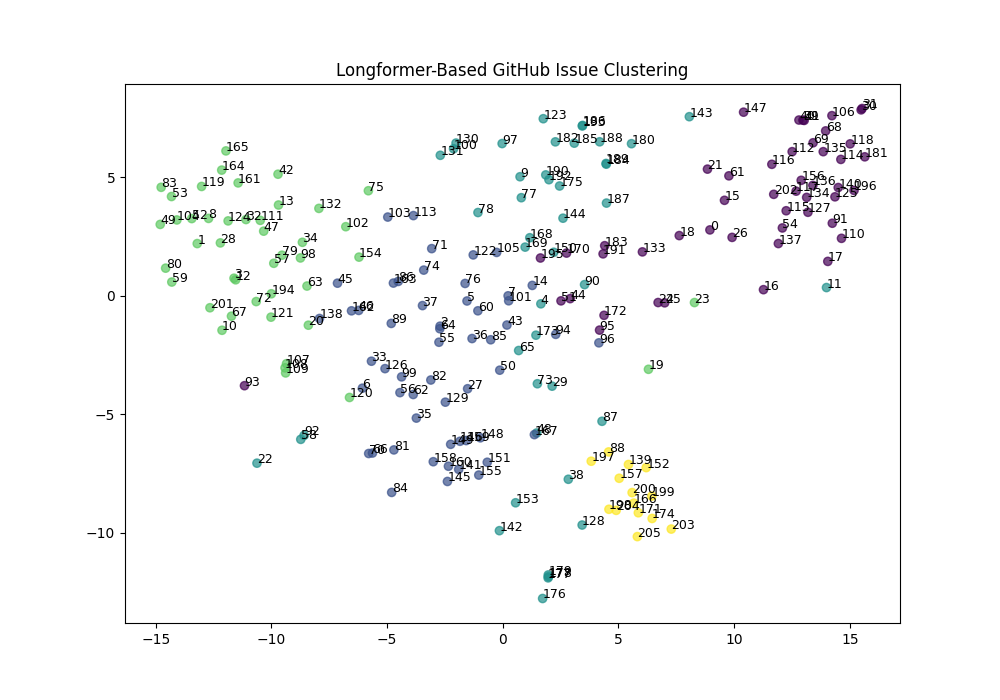
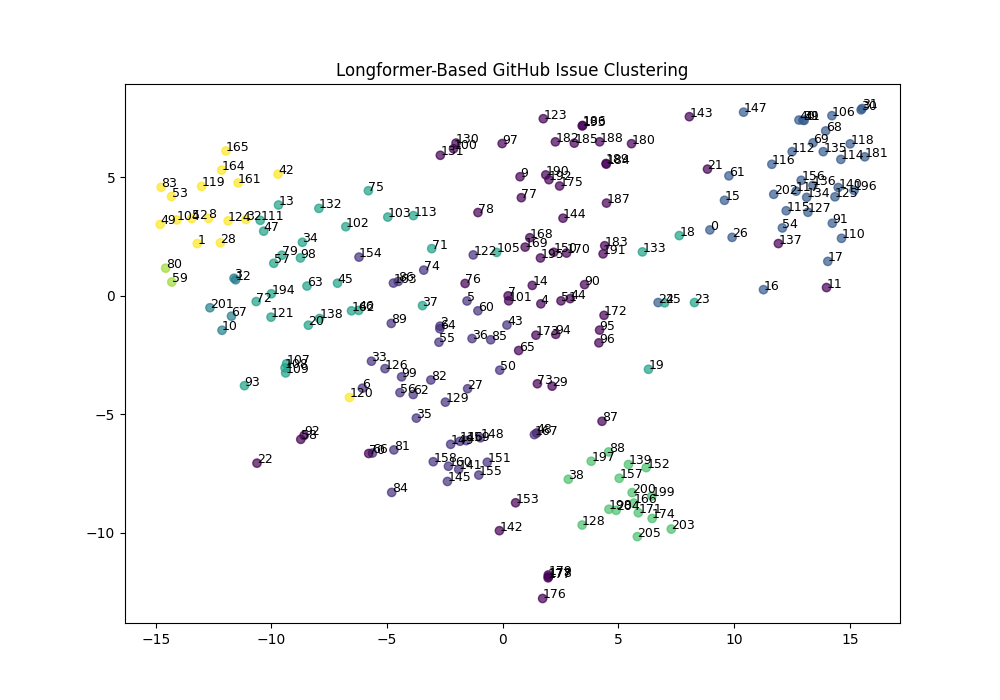
pushing changes to embedding function and clusters

diff --git a/github_issue_reader/categorization.py b/github_issue_reader/categorization.py
@@ -63,7 +63,11 @@ def categorize_issues(issues):
         embeddings_list.append(new_embedding)
     
     final_array = np.vstack(embeddings_list)  
+    df = pd.DataFrame(final_array)
+    df.columns = [f"dim_{i}" for i in range(df.shape[1])]
+    df["texts"] = issues
 
+    df.to_csv("../open_issue_embeddings.csv", index=False)
     return final_array
 
 
@@ -99,7 +103,7 @@ def main():
     issues = (df["title"] + '\n' + df["body"]).tolist()
 
     embeddings = categorize_issues(issues)
-    clusters = perform_clustering(5, embeddings, issues)
+    clusters = perform_clustering(8, embeddings, issues)
     visualize_cluster(embeddings, clusters, issues)
     print("Completed the visualization")
 
